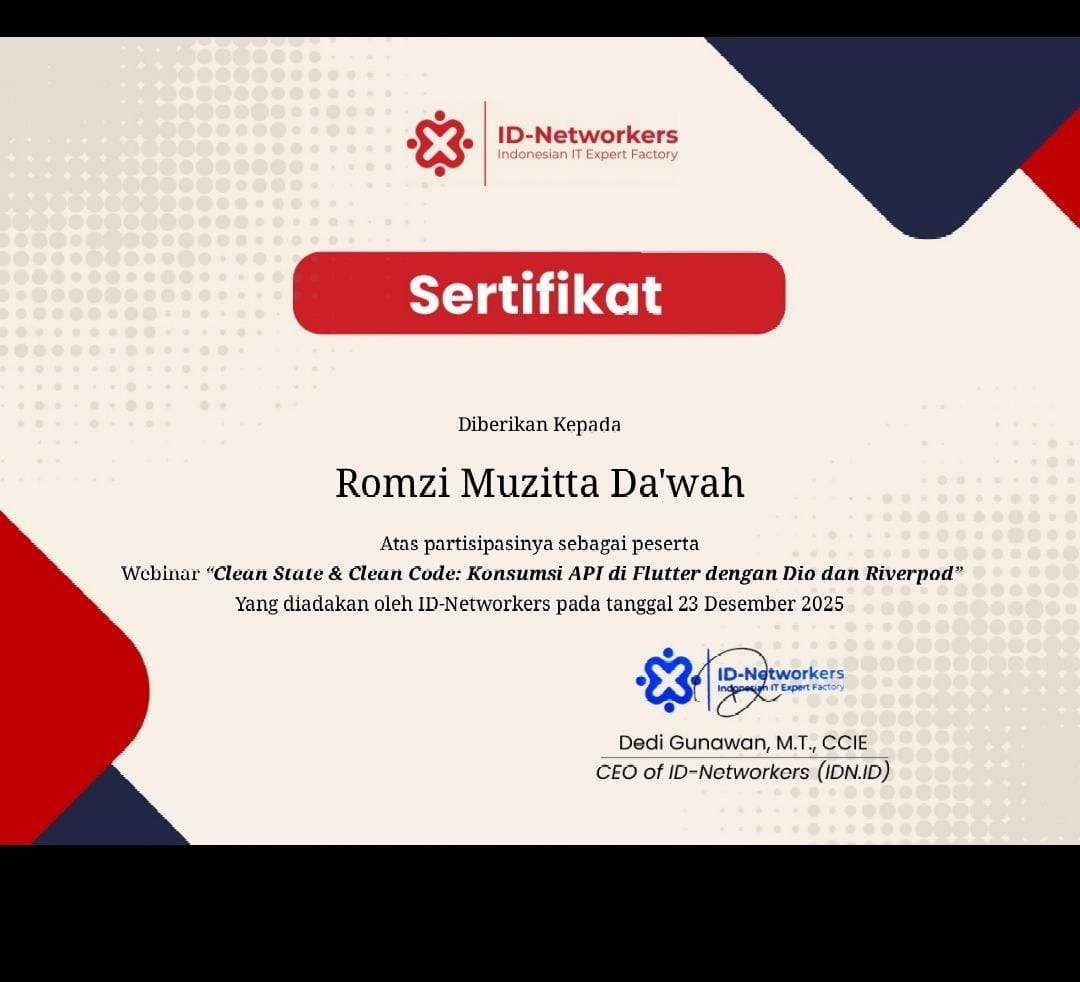
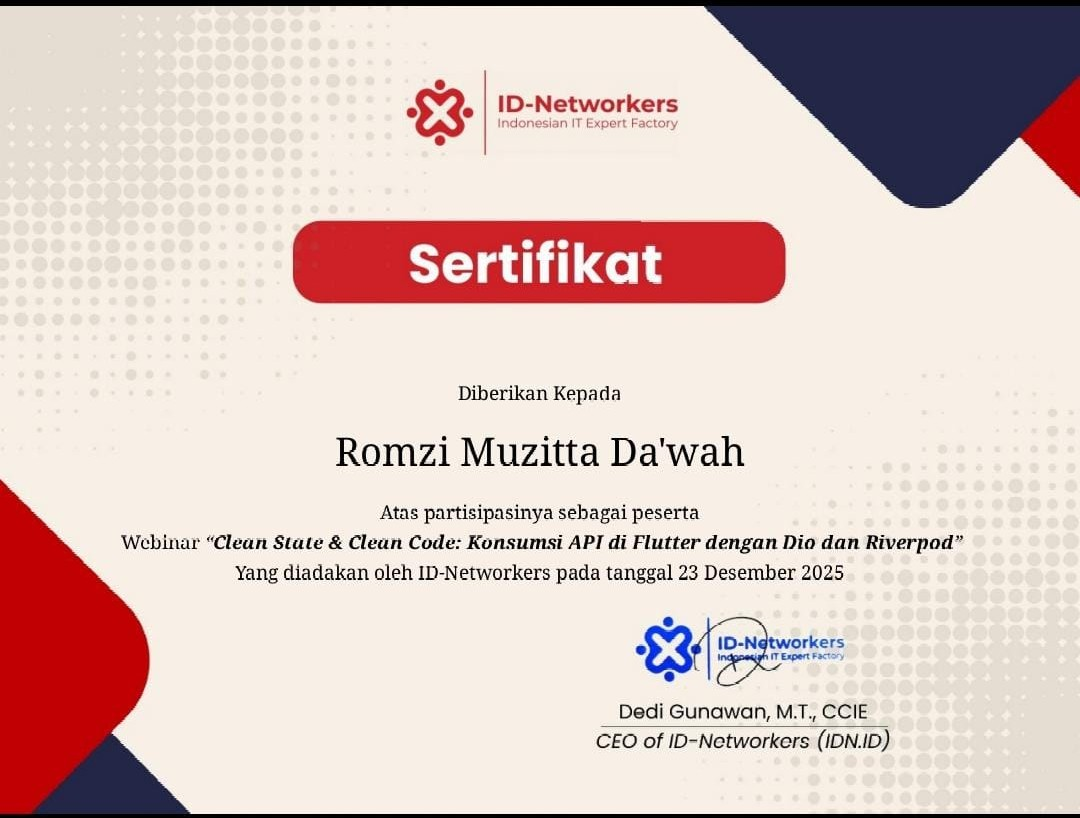
update project

diff --git a/index.html b/index.html
@@ -1,16 +1,9 @@
 <!DOCTYPE html>
-<!-- Menandakan bahwa dokumen ini menggunakan HTML5 -->
 <html lang="id">
-  <!-- Bahasa dokumen diatur ke Bahasa Indonesia -->
   <head>
     <meta charset="UTF-8" />
-    <!-- Mengatur karakter agar mendukung huruf Latin & simbol -->
     <meta name="viewport" content="width=device-width, initial-scale=1" />
-    <!-- Agar tampilan responsif di semua perangkat -->
     <title>Romzi || Portofolio</title>
-    <!-- Judul tab browser -->
-
-    <!-- Memanggil CSS Bootstrap versi 5 untuk styling cepat -->
     <link
       href="https://cdn.jsdelivr.net/npm/bootstrap@5.3.3/dist/css/bootstrap.min.css"
       rel="stylesheet"
@@ -141,7 +134,7 @@
 
                 <div class="d-flex justify-content-center gap-2 mb-3">
                   <a href="#contact" class="btn btn-outline-primary btn-sm" aria-label="Hubungi saya">Hubungi</a>
-                  <a href="asset/img/ROMZI MUZITTA DA`WAH.JPG" class="btn btn-primary btn-sm" download aria-label="Unduh CV">Unduh CV</a>
+                  <a href="asset/img/CV kerja romzi.docx" class="btn btn-primary btn-sm" download aria-label="Unduh CV">Unduh CV</a>
                 </div>
 
                 <ul class="list-unstyled small mb-0 text-start">
@@ -324,13 +317,13 @@
           <div class="col-md-4">
             <div class="card h-100">
               <img
-                src="asset/img/certificate2.jpg"
+                src="asset/img/ct baru.jpeg"
                 class="card-img-top"
                 alt="Sertifikat 2"
               />
               <div class="card-body">
-                <h5 class="card-title">Sertifikat UI/UX Design</h5>
-                <p class="card-text">Diberikan oleh Coursera, 2022.</p>
+                <h5 class="card-title">Sertifikat webinar</h5>
+                <p class="card-text">Diberikan oleh ID.Networkers, 2026.</p>
               </div>
             </div>
           </div>
